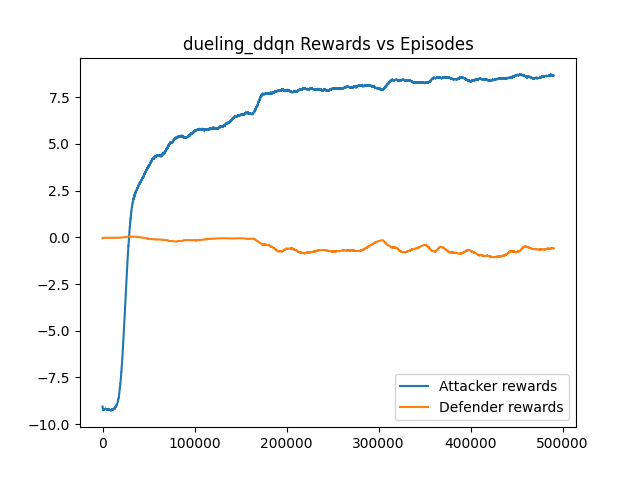
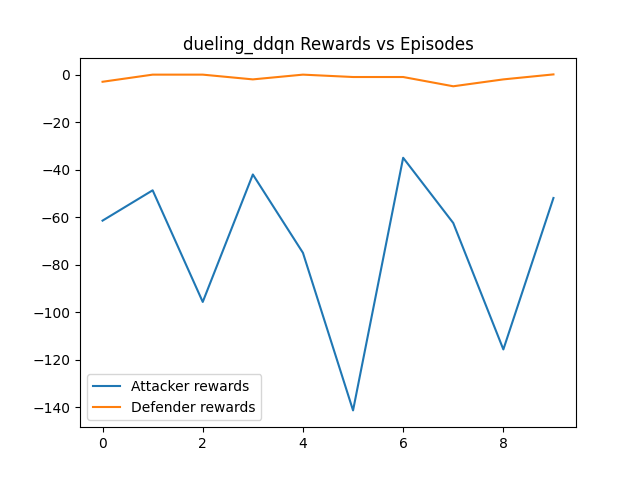
Reward on step fix
Rewards now carry between step in turns

diff --git a/run_game.py b/run_game.py
@@ -14,17 +14,17 @@ if __name__ == '__main__':
 
     # --- Load / save setting
     enable_load = False
-    enable_save = False
+    enable_save = True
     
     # --- Set up your algorithm here
-    N_EPISODES = 500000
+    N_EPISODES = 1000
     N_TURNS = 30
     '''Algorithm list:
         - dqn
         - dueling_ddqn
         - ppo
     '''
-    algorithm_version = 'dueling_ddqn'
+    algorithm_version = 'dqn'
 
     # --- Setting up the game environment
     env = game.Game(ml_ai=True, render=False)
@@ -81,13 +81,15 @@ if __name__ == '__main__':
             done = False
             attacker_end_turn = False
             defender_end_turn = False
+            attacker_reward = 0
+            defender_reward = 0
             # print(f"Attacker turn")
             while not attacker_end_turn:
                  # --- Determine what action to take. 
                 attacker_action = attacker_agent.act(state)
                 # --- Perform that action in the environment
                 # print(f"Attacker action: {attacker_action}, turn: {step}")
-                next_state, attacker_reward, attacker_end_turn, done = env.step('attacker', attacker_action)
+                next_state, attacker_reward, attacker_end_turn, done = env.step('attacker', attacker_action, attacker_reward)
                 # --- Store state and action into memory
                 attacker_agent.remember(state, next_state, attacker_action, attacker_reward, done)
                 # --- Update the current state of the game
@@ -101,7 +103,7 @@ if __name__ == '__main__':
                 defender_action = defender_agent.act(state)
                 # --- Perform that action in the environment
                 # print(f"Defender action: {defender_action}, turn: {step}")
-                next_state, defender_reward, defender_end_turn, done = env.step('defender', defender_action)
+                next_state, defender_reward, defender_end_turn, done = env.step('defender', defender_action, defender_reward)
                 # --- Store state and action into memory
                 defender_agent.remember(state, next_state, defender_action, defender_reward, done)
                 # --- Update the current state of the game
@@ -135,7 +137,7 @@ if __name__ == '__main__':
     print(f"Training finished. Total elapsed time: {round(training_end_time-training_start_time, 2)}s")
 
     # --- Rewards vs episode plot
-    def moving_average(x, w=10000):
+    def moving_average(x, w=10):
         avg = np.convolve(x, np.ones(w), 'valid') / w
         avg = np.append(avg, np.repeat(np.nan, w-1))
         return avg

diff --git a/game.py b/game.py
@@ -558,20 +558,18 @@ class Game():
 
     def step(self,
             team,
-            action_input=0):
+            action_input=0, reward=0):
         """In this function we take a step for the agent in the main game."""
         global CITY_OBJECTS, TURN_NUMBER
         # --- agent action definition
         action = 'no-action'
         game_quit = False
-        reward = 0
 
         if not any(obj.movement > 0 for obj in OWN_OBJECTS[team]):
             for obj in OWN_OBJECTS[team]:
                 if obj.alive == True:
                     obj.movement = obj.movement_max
             if team == 'attacker':
-                TURN_NUMBER += 1
                 reward -= 0.5
                 for obj in CITY_OBJECTS:
                 # Check to see if the city is dead or not
@@ -581,6 +579,8 @@ class Game():
 
                     # Attempt to heal the city otherwise
                     obj.take_turn()
+            else:
+                TURN_NUMBER += 1
             return self.get_observation(), reward, True, game_quit
             
         # --- draw the game
